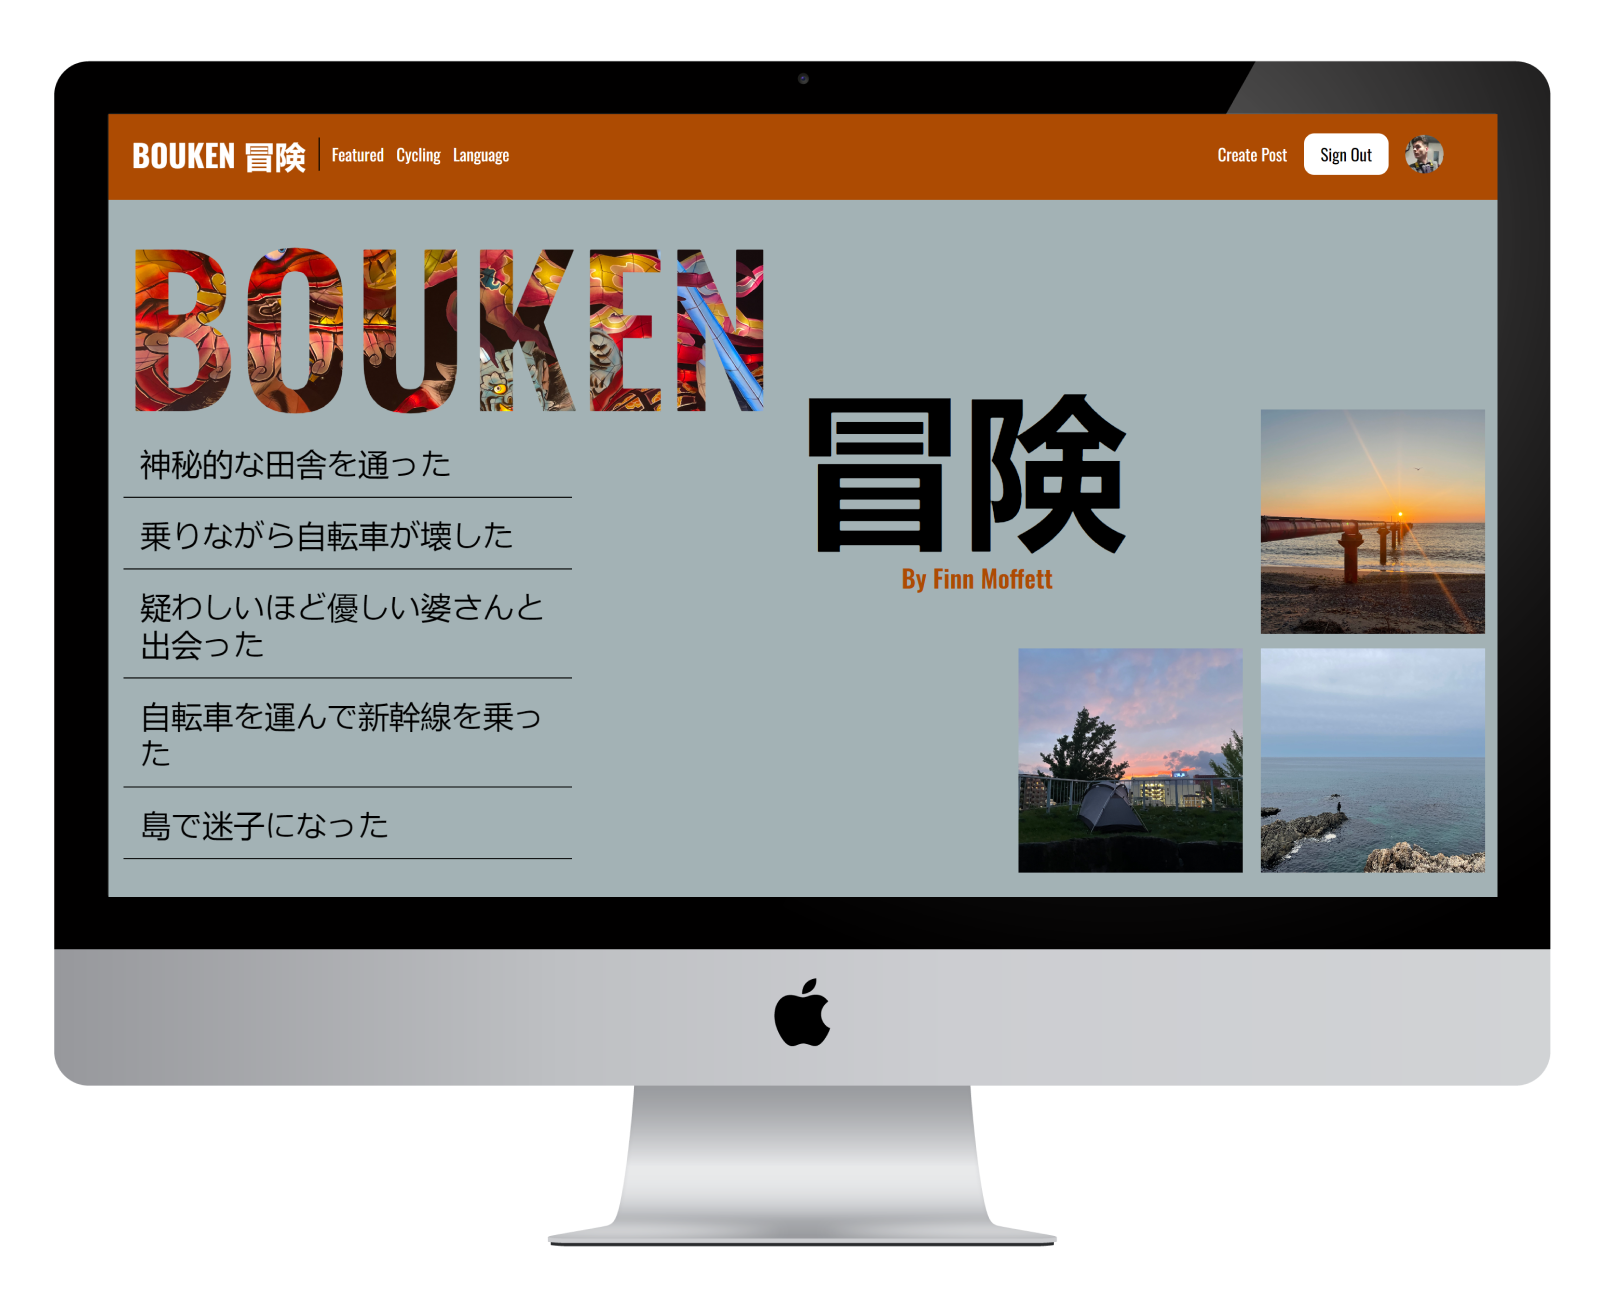
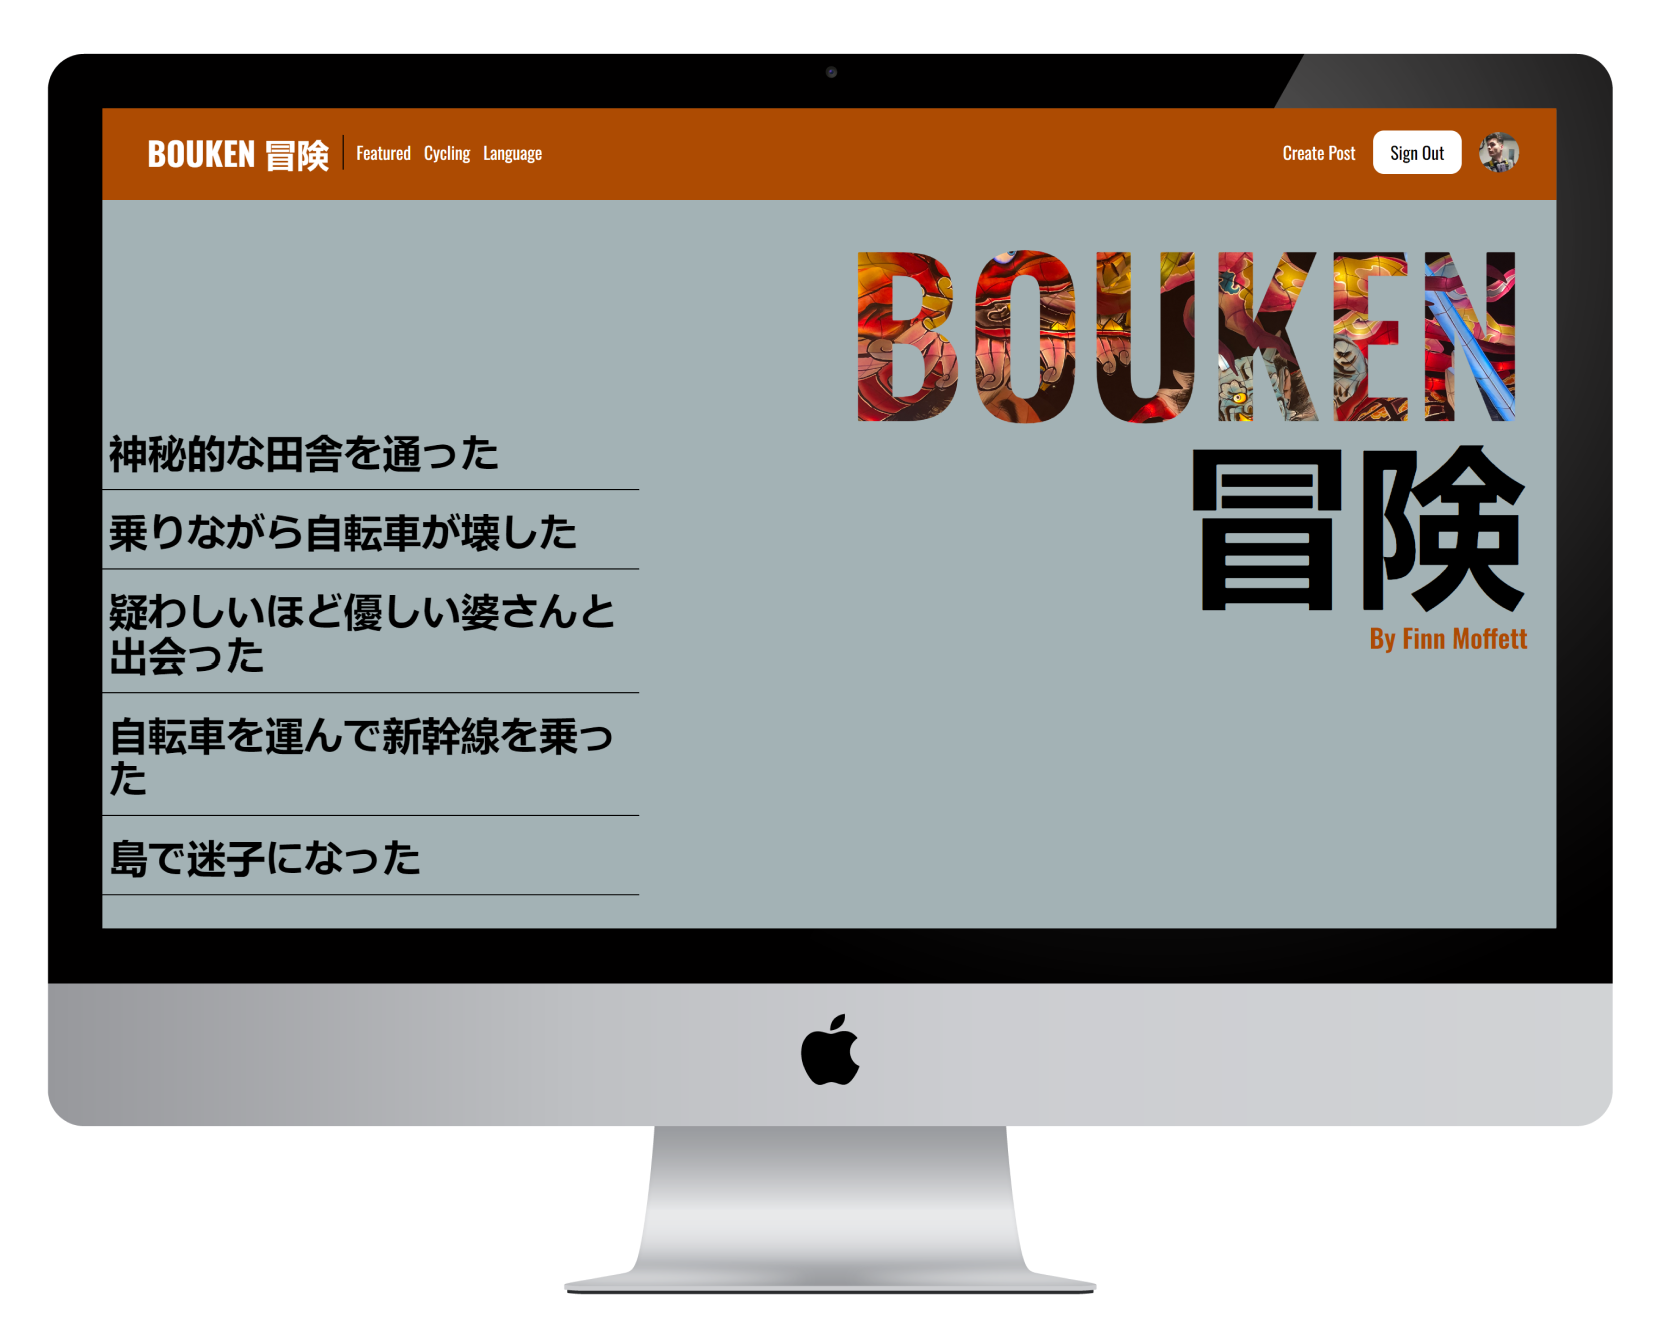
Add bouken blog images

Changed region(s): [[0.031, 0.0309, 0.9926, 0.8642], [0.3412, 0.9259, 0.6514, 0.9877]]

diff --git a/src/data/data.js b/src/data/data.js
@@ -29,6 +29,11 @@ import martialcharts1 from '../assets/martial-charts-1.png'
 import martialcharts2 from '../assets/martial-charts-2.png'
 import martialcharts3 from '../assets/martial-charts-3.png'
 
+import bouken1 from '../assets/bouken-1.png'
+import bouken2 from '../assets/bouken-2.png'
+import bouken3 from '../assets/bouken-3.png'
+import bouken4 from '../assets/bouken-4.png'
+import bouken5 from '../assets/bouken-5.png'
 
 const data = [
     {
@@ -77,7 +82,7 @@ const data = [
       stack: ['NextJS','React','Framer Motion','TailwindCSS'],
       github: "https://github.com",
       demo: "https://github.com",
-      photos: [],
+      photos: [bouken2, bouken1, bouken3, bouken4, bouken5],
     },
     {
       id: 5,
